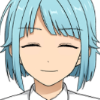
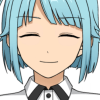
update

diff --git a/css/esexp.css b/css/esexp.css
@@ -8412,6 +8412,9 @@
 [character="Nazuna"][norsmile2] {
   --icon:url("https://cdn.jsdelivr.net/gh/310mc/css@latest/img/nazuna_norsmile2.png");
 }
+[character="Nazuna"][norsmile3] {
+  --icon:url("https://cdn.jsdelivr.net/gh/310mc/css@latest/img/nazuna_norsmile3.png");
+}
 [character="Nazuna"][northinking] {
   --icon:url("https://cdn.jsdelivr.net/gh/310mc/css@latest/img/nazuna_northinking.png");
 }
